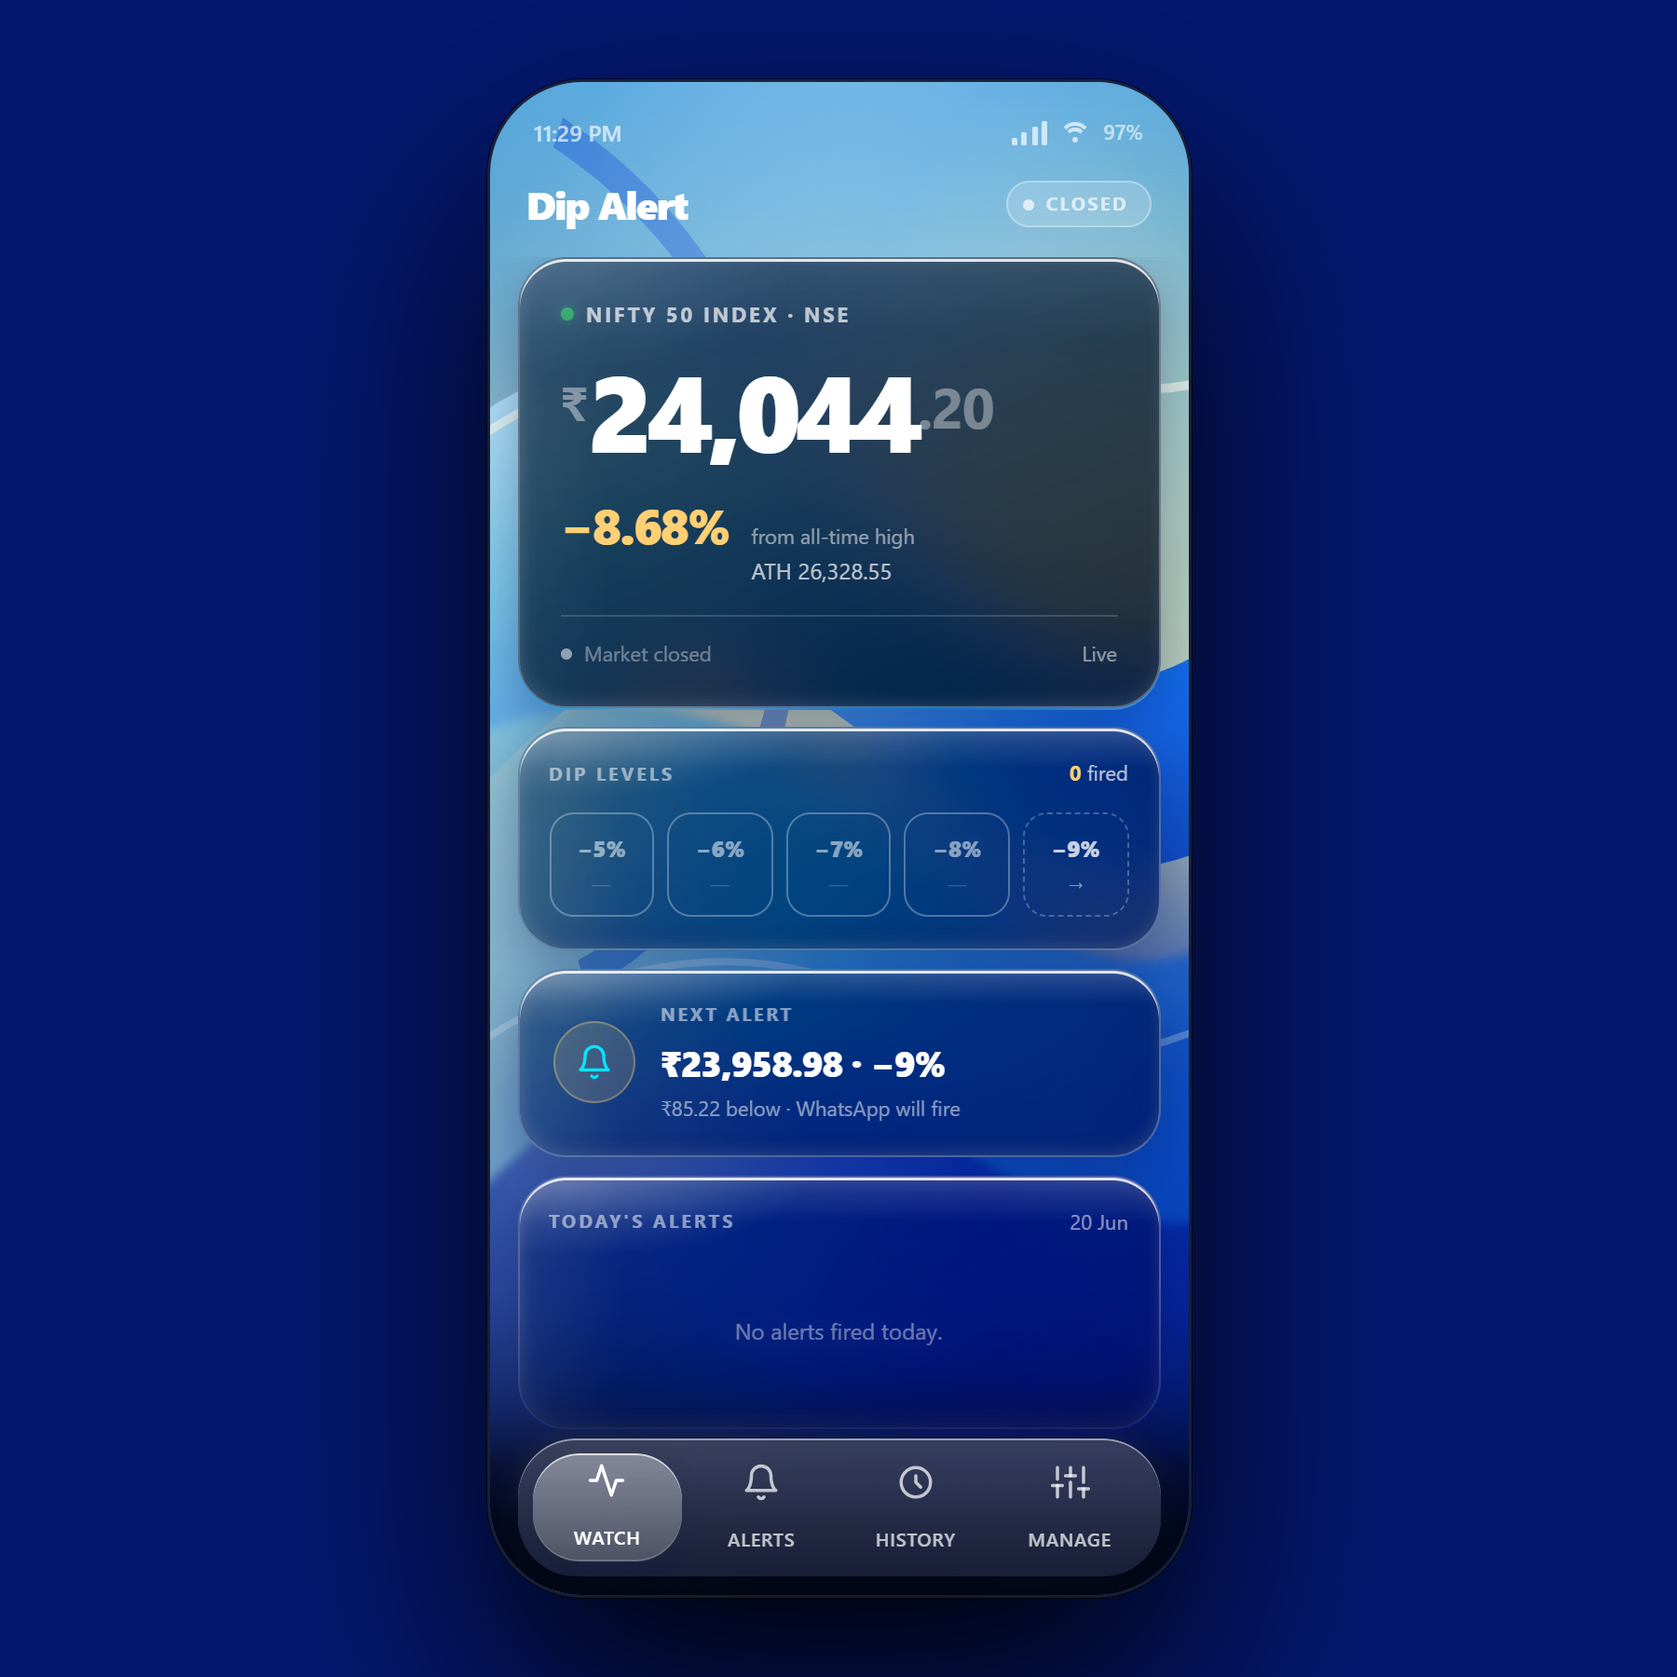
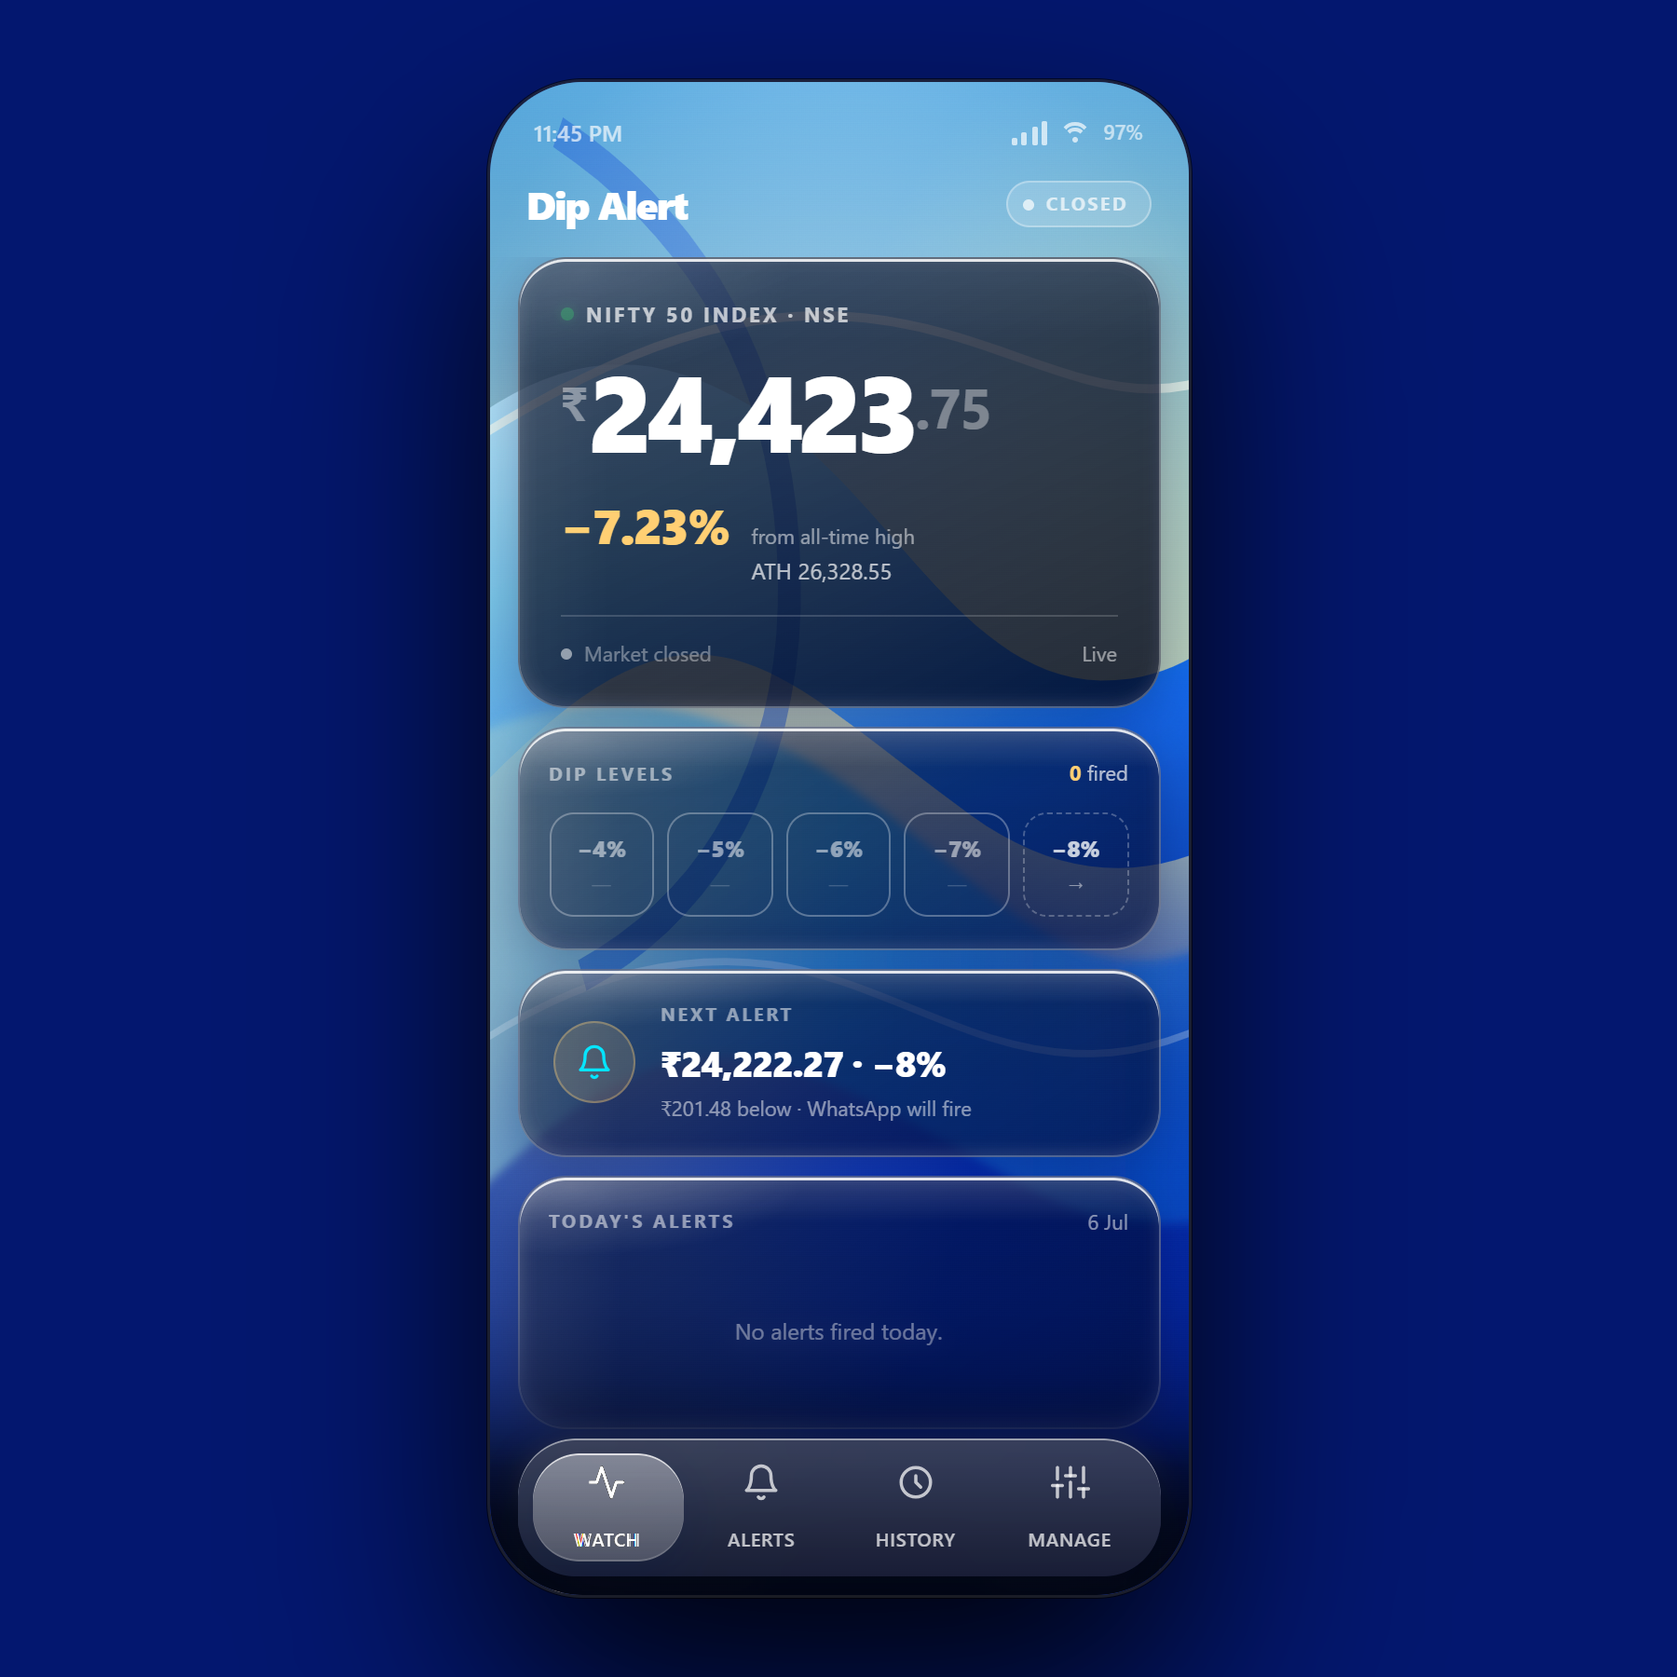
feat(ui): liquid-glass refraction lens on the nav sliding indicator
Wire up the formerly dormant NavLensFilter using the Aave cross-browser
technique (aave.com/design/building-glass-for-the-web): the indicator
pill is now a lens that refracts a white counter-translated copy of the
tab row via a plain SVG filter (not Chromium-only backdrop-filter url()).

- Chromatic fringe: three feDisplacementMap passes at staggered scales
  (30/36/42), one per color channel, recomposed additively
- Spring settle: GSAP back.out(1.7) drives pill + copy in lockstep,
  replacing the straight CSS cubic-bezier slide; reduced-motion snaps
- Fixes in the dormant filter: colorInterpolationFilters=sRGBLinear
  is invalid (fell back to linearRGB, ghosting everything ~7px
  down-right); feImage needs explicit width/height or the map renders
  at natural size with the same ghost
- Horizontal-only map: label sits flush to the pill bottom edge, any
  Y-bend ghosts the text
- Regenerate docs screenshot from the live app; update CLAUDE.md nav
  rules (spring is now intentional, filter no longer dormant)

Claude-Session: https://claude.ai/code/session_01GLrV6Mr1aGEmYojnt8BTzL

diff --git a/frontend/src/App.jsx b/frontend/src/App.jsx
@@ -1,4 +1,5 @@
 import { useEffect, useLayoutEffect, useRef, useState } from 'react'
+import { gsap, prefersReducedMotion } from './gsap.js'
 import { AssetProvider } from './AssetContext.jsx'
 import { isMarketOpenIST } from './lib.js'
 import WatchTab from './tabs/WatchTab.jsx'
@@ -129,8 +130,10 @@ function Wallpaper() {
 }
 
 // Edge-concentrated lens displacement map for the nav's Liquid Glass refraction.
-// Generated once into a canvas data-URL; the SVG filter it feeds isn't wired to
-// any element's `filter` yet — same dormant state as the Liquid Glass source.
+// Generated once into a canvas data-URL; fed to `.nav-lens` as a plain `filter`
+// (not backdrop-filter) so the refraction works beyond Chromium. The lens bends
+// a highlighted copy of the tab row (see BottomNav), not the backdrop — the
+// Aave "refractionTarget" technique (aave.com/design/building-glass-for-the-web).
 function NavLensFilter() {
   useEffect(() => {
     const W = 128
@@ -145,11 +148,12 @@ function NavLensFilter() {
       for (let x = 0; x < W; x++) {
         const i = (y * W + x) * 4
         const nx = (x / (W - 1)) * 2 - 1
-        const ny = (y / (H - 1)) * 2 - 1
         const sx = (nx < 0 ? -1 : 1) * Math.abs(nx) ** 3
-        const sy = (ny < 0 ? -1 : 1) * Math.abs(ny) ** 3
+        // Horizontal-only bend: the label sits flush against the pill's bottom
+        // edge, so any Y displacement ghosts the text below itself. The pill
+        // travels horizontally, so X is where the refraction reads anyway.
         d[i] = Math.round(((sx + 1) / 2) * 255)
-        d[i + 1] = Math.round(((sy + 1) / 2) * 255)
+        d[i + 1] = 128
         d[i + 2] = 0
         d[i + 3] = 255
       }
@@ -161,9 +165,24 @@ function NavLensFilter() {
   return (
     <svg aria-hidden="true" focusable="false" style={{ position: 'absolute', width: 0, height: 0, overflow: 'hidden', pointerEvents: 'none' }}>
       <defs>
-        <filter id="nav-lq" x="-6%" y="-28%" width="112%" height="156%" colorInterpolationFilters="sRGBLinear">
+        {/* colorInterpolationFilters MUST be "sRGB" (the literal keyword —
+            "sRGBLinear" is invalid and silently falls back to linearRGB, which
+            remaps the map's neutral 128-gray to ~55 and shifts everything
+            down-right by ~scale/3.5).
+            Three displacement passes at staggered scales, one per color
+            channel, recomposed additively — the chromatic fringe from the Aave
+            glass chain. Alpha is kept in every pass; the additive clamp is the
+            standard trade-off. */}
+        <filter id="nav-lq" x="-6%" y="-28%" width="112%" height="156%" colorInterpolationFilters="sRGB">
           <feImage id="nav-dmap" preserveAspectRatio="none" result="dmap" />
-          <feDisplacementMap in="SourceGraphic" in2="dmap" scale="32" xChannelSelector="R" yChannelSelector="G" />
+          <feDisplacementMap in="SourceGraphic" in2="dmap" scale="30" xChannelSelector="R" yChannelSelector="G" result="dispR" />
+          <feColorMatrix in="dispR" type="matrix" values="1 0 0 0 0  0 0 0 0 0  0 0 0 0 0  0 0 0 1 0" result="chanR" />
+          <feDisplacementMap in="SourceGraphic" in2="dmap" scale="36" xChannelSelector="R" yChannelSelector="G" result="dispG" />
+          <feColorMatrix in="dispG" type="matrix" values="0 0 0 0 0  0 1 0 0 0  0 0 0 0 0  0 0 0 1 0" result="chanG" />
+          <feDisplacementMap in="SourceGraphic" in2="dmap" scale="42" xChannelSelector="R" yChannelSelector="G" result="dispB" />
+          <feColorMatrix in="dispB" type="matrix" values="0 0 0 0 0  0 0 0 0 0  0 0 1 0 0  0 0 0 1 0" result="chanB" />
+          <feComposite in="chanR" in2="chanG" operator="arithmetic" k1="0" k2="1" k3="1" k4="0" result="chanRG" />
+          <feComposite in="chanRG" in2="chanB" operator="arithmetic" k1="0" k2="1" k3="1" k4="0" />
         </filter>
       </defs>
     </svg>
@@ -173,29 +192,74 @@ function NavLensFilter() {
 function BottomNav({ tab, setTab }) {
   const navRef = useRef(null)
   const btnRefs = useRef({})
-  const [indicator, setIndicator] = useState(null)
+  const indRef = useRef(null)
+  const copyRef = useRef(null)
+  const [navW, setNavW] = useState(null)
+  const settledRef = useRef(false)
 
   useLayoutEffect(() => {
-    const measure = () => {
+    const apply = (animate) => {
       const nav = navRef.current
       const btn = btnRefs.current[tab]
-      if (!nav || !btn) return
+      const ind = indRef.current
+      const copy = copyRef.current
+      if (!nav || !btn || !ind || !copy) return
       const navRect = nav.getBoundingClientRect()
       const btnRect = btn.getBoundingClientRect()
-      setIndicator({ width: btnRect.width, x: btnRect.left - navRect.left - 8 })
+      const x = btnRect.left - navRect.left - 8
+      setNavW(navRect.width - 16)
+      // feImage does NOT stretch to the filter region on its own — without an
+      // explicit size it renders the 128x32 map at natural size and the
+      // uncovered (transparent) area displaces by -scale/2, ghosting the copy
+      // down-right. Track the pill's live box so the lens edges follow the
+      // width tween frame by frame.
+      const dmap = document.getElementById('nav-dmap')
+      const sizeMap = () => {
+        if (!dmap) return
+        dmap.setAttribute('x', '0')
+        dmap.setAttribute('y', '0')
+        dmap.setAttribute('width', String(ind.offsetWidth))
+        dmap.setAttribute('height', String(btnRect.height))
+      }
+      if (!animate || prefersReducedMotion()) {
+        gsap.set(ind, { width: btnRect.width, x })
+        gsap.set(copy, { x: -x })
+        sizeMap()
+      } else {
+        // Aave-style spring settle: overshoot then ease into place. The pill
+        // and the counter-translated copy share one duration/ease so the two
+        // transforms cancel out mid-flight and the copy stays glued to the
+        // real buttons while the lens sweeps over it.
+        const spring = { duration: 0.55, ease: 'back.out(1.7)', overwrite: 'auto' }
+        gsap.to(ind, { width: btnRect.width, x, ...spring, onUpdate: sizeMap })
+        gsap.to(copy, { x: -x, ...spring })
+      }
+      ind.classList.add('ready')
     }
-    measure()
-    window.addEventListener('resize', measure)
-    return () => window.removeEventListener('resize', measure)
+    apply(settledRef.current)
+    settledRef.current = true
+    const onResize = () => apply(false)
+    window.addEventListener('resize', onResize)
+    return () => window.removeEventListener('resize', onResize)
   }, [tab])
 
   return (
     <nav className="nav" ref={navRef} aria-label="Primary">
-      <div
-        className={`nav-indicator ${indicator ? 'ready' : ''}`}
-        style={indicator ? { width: indicator.width, transform: `translateX(${indicator.x}px)` } : undefined}
-        aria-hidden="true"
-      />
+      <div className="nav-indicator" ref={indRef} aria-hidden="true">
+        {/* Refraction target: white copy of the tab row, counter-translated so it
+            stays aligned with the real buttons while the pill (and the lens
+            filter with it) slides over it. */}
+        <div className="nav-lens">
+          <div className="nav-lens-copy" ref={copyRef} style={navW ? { width: navW } : undefined}>
+            {TABS.map(({ id, label, icon: Icon }) => (
+              <span key={id} className="nav-lens-item">
+                <Icon />
+                {label}
+              </span>
+            ))}
+          </div>
+        </div>
+      </div>
       {TABS.map(({ id, label, icon: Icon }) => (
         <button
           key={id}

diff --git a/frontend/src/index.css b/frontend/src/index.css
@@ -914,7 +914,6 @@ button.g {
 }
 .nav button.active {
   color: #ffffff;
-  transform: translateY(-1px);
 }
 .nav-indicator {
   position: absolute;
@@ -922,6 +921,7 @@ button.g {
   bottom: 8px;
   left: 8px;
   border-radius: 25px;
+  overflow: hidden; /* clips the refracted copy to the pill */
   background:
     linear-gradient(180deg, rgba(255, 255, 255, 0.31), rgba(255, 255, 255, 0.13)),
     rgba(255, 255, 255, 0.10);
@@ -931,13 +931,42 @@ button.g {
     0 10px 26px rgba(4, 22, 72, 0.22);
   pointer-events: none;
   opacity: 0;
-  transition:
-    transform 340ms cubic-bezier(0.16, 1, 0.3, 1),
-    width 340ms cubic-bezier(0.16, 1, 0.3, 1),
-    opacity 180ms ease;
-  z-index: 1;
+  /* transform/width are GSAP-driven (spring settle) — CSS only fades it in */
+  transition: opacity 180ms ease;
+  z-index: 3; /* above the buttons: the lens's refracted copy is what reads as "selected" */
 }
 .nav-indicator.ready { opacity: 1; }
+/* Liquid Glass lens: plain SVG filter (cross-browser, unlike backdrop-filter url())
+   bending the white tab-row copy. The copy's counter-translate shares the pill's
+   easing so the two transforms cancel out mid-flight and the copy stays glued
+   to the real buttons underneath. */
+.nav-lens {
+  position: absolute;
+  inset: 0;
+  filter: url(#nav-lq);
+  will-change: filter;
+  pointer-events: none;
+}
+.nav-lens-copy {
+  position: absolute;
+  left: 0;
+  top: 0;
+  height: 100%;
+  display: grid;
+  grid-template-columns: repeat(4, 1fr);
+  gap: 2px;
+  color: #ffffff; /* matches the active label — the lens bends it without tinting */
+  /* transform is GSAP-driven in lockstep with the pill — no CSS transition */
+}
+.nav-lens-item {
+  display: grid;
+  place-items: center;
+  gap: 4px;
+  font-size: 10px;
+  font-weight: 500;
+  letter-spacing: 0.04em;
+  text-transform: uppercase;
+}
 .nav svg { width: 21px; height: 21px; stroke: currentColor; }
 
 @media (prefers-reduced-motion: reduce) {

diff --git a/CLAUDE.md b/CLAUDE.md
@@ -126,7 +126,7 @@ The frontend is a **mobile-first single-page app** on the **Liquid Glass** desig
 
 - `api.js` — all backend calls; baseURL is `VITE_API_URL` in production, relative (proxied) in dev. Axios `X-App-Token` interceptor.
 - `gsap.js` — tiny shared module: registers the `useGSAP` plugin once, exports `gsap`/`useGSAP`/`prefersReducedMotion()`. Every component doing GSAP work imports from here instead of `gsap` directly.
-- `App.jsx` — phone shell + 4-tab bottom nav. `Wallpaper` (sky/ribbon/grain/glow decorative layers), `StatusBar`, `AppHeader` (live/closed chip), `BottomNav` (floating pill nav with a measured sliding indicator), `NavLensFilter` (dormant lens-displacement SVG filter, see Bottom nav below), `AppShell` (tab useState + `tabMotionKey` for active-state animation). Shell `.wrap` carries `id="phone-shell"`. Default export wraps in `<AssetProvider>`.
+- `App.jsx` — phone shell + 4-tab bottom nav. `Wallpaper` (sky/ribbon/grain/glow decorative layers), `StatusBar`, `AppHeader` (live/closed chip), `BottomNav` (floating pill nav with a measured sliding indicator), `NavLensFilter` (lens-displacement SVG filter feeding the indicator's live refraction, see Bottom nav below), `AppShell` (tab useState + `tabMotionKey` for active-state animation). Shell `.wrap` carries `id="phone-shell"`. Default export wraps in `<AssetProvider>`.
 - `AssetContext.jsx` — `AssetProvider`: data loading from `/api/status`, 30-day history pre-fetching, active selection memory (localStorage), `refresh()`. `useAssets` hook lives in `useAssets.js` (fast-refresh rule). 60s poll.
 - `tabs/WatchTab.jsx` — hero price card, **mode-aware display**:
   - **Dip mode**: `Tracker` (5 dip-level pills, windowed) + `NextAlert` (next trigger price + distance)
@@ -165,11 +165,11 @@ Implemented in `App.jsx`'s `BottomNav` component (measures button positions with
 
 **Single-layer glass only**: `backdrop-filter` on `.nav` itself — NOT a child. Chrome seam bug on child inside `overflow:hidden`.
 
-**Sliding indicator** (`.nav-indicator`): `transform: translateX(...)` + `width`, computed from `getBoundingClientRect()` of the active button. Use `cubic-bezier(0.16, 1, 0.3, 1)` — y > 1.0 causes overshoot.
+**Sliding indicator** (`.nav-indicator`): `transform: translateX(...)` + `width`, computed from `getBoundingClientRect()` of the active button. As of 2026-07-06 the motion is **GSAP-driven** (`back.out(1.7)`, 0.55s — the Aave-style spring settle the user asked for; overshoot is now intentional), NOT a CSS transition — `.nav-indicator`/`.nav-lens-copy` deliberately have no transform/width transitions in CSS, or they'd fight the tweens. The pill tween and the copy's counter-translate tween share one duration/ease so they cancel mid-flight. `prefersReducedMotion()` snaps with `gsap.set` instead.
 
 **Tab switch flash fix**: all four tab panels stay mounted in `App.jsx` (do NOT go back to conditional `{tab === ... && <Tab />}` rendering). Inactive panels use `opacity: 0; visibility: hidden; pointer-events: none` (NOT `display: none`). Active panels use `.panel.active.animating` with CSS `panel-enter`; direct child `.dash-card` cards use CSS `card-enter` with staggered delays. This preserves the original entrance feel without React remount flicker.
 
-**Liquid Glass refraction**: `NavLensFilter` in `App.jsx` generates a cubic-power displacement map into a canvas → SVG `feImage` once on mount. `feTurbulence` = WRONG (shaky noise). SVG filter needs `y="-28%" height="156%"`. **This filter is intentionally dormant** — nothing's `.nav` rule actually applies `filter: url(#nav-lq)` yet (the original design source it was ported from doesn't wire it up either). Don't "fix" this without checking with the user first; it may be intentional staging for later.
+**Liquid Glass refraction** (wired up 2026-07-06, Aave technique — aave.com/design/building-glass-for-the-web): `NavLensFilter` in `App.jsx` generates a cubic-power displacement map into a canvas → SVG `feImage` once on mount. The filter is applied as a plain `filter: url(#nav-lq)` (cross-browser) on `.nav-lens` inside `.nav-indicator` — **not** `backdrop-filter: url()`, which is Chromium-only. The lens refracts a white copy of the tab row (`.nav-lens-copy` — white, not gold: the user explicitly asked for the gold label to be removed, so the refraction shows with no color tint; counter-translated in a GSAP tween sharing the pill's spring so the two transforms cancel and the copy stays glued to the real buttons; the indicator sits at `z-index: 3`, above the buttons, so the refracted copy is what reads as "selected"). The filter is Aave's full chain: **three** `feDisplacementMap` passes at staggered scales (30/36/42), each isolated to one color channel via `feColorMatrix`, recomposed with additive `feComposite arithmetic` — that scale stagger IS the chromatic fringe that makes the refraction visible; a single pass at scale ~24 reads as nothing. Hard-won details, don't regress: (1) `colorInterpolationFilters` must be the literal `sRGB` — `sRGBLinear` is invalid, silently falls back to `linearRGB`, and shifts the whole refraction down-right ~7px; (2) `feImage` needs explicit `width`/`height` set to the pill's box (done in `BottomNav`'s measure) — without them it renders the map at natural size and the uncovered area displaces by −scale/2 (same down-right ghost), and Firefox needs the explicit size regardless; (3) the map is horizontal-only (G channel = neutral 128) because the label sits flush against the pill's bottom edge and any Y-bend ghosts the text below itself; (4) `feTurbulence` = WRONG (shaky noise); filter region stays `y="-28%" height="156%"`. Safari untested as of 2026-07-06 (no macOS box) — if the lens freezes mid-motion there, that's Safari's filter-ID output cache; give the filter a fresh id per map update.
 
 **`.nav-scrim`**: a separate absolutely-positioned fade layer (`z-index: 5`, between panel content and the nav's `z-index: 10`) sitting behind the nav. Needed because the floating nav leaves a small gap between its own bottom edge and the phone's edge that isn't covered by the nav or clipped by the panel — without the scrim, scrollable content (e.g. the watchlist's first row) shows through as "ghost text" right at the bottom of the Watch tab. The scrim uses **`mask-image`** (not just a `background` gradient) so the `backdrop-filter` blur itself fades in gradually — a plain gradient background only fades the *tint*, not the blur, which left a visible hard seam where the blur snapped on. This is the standard progressive-blur trick (how iOS does it too).
 
